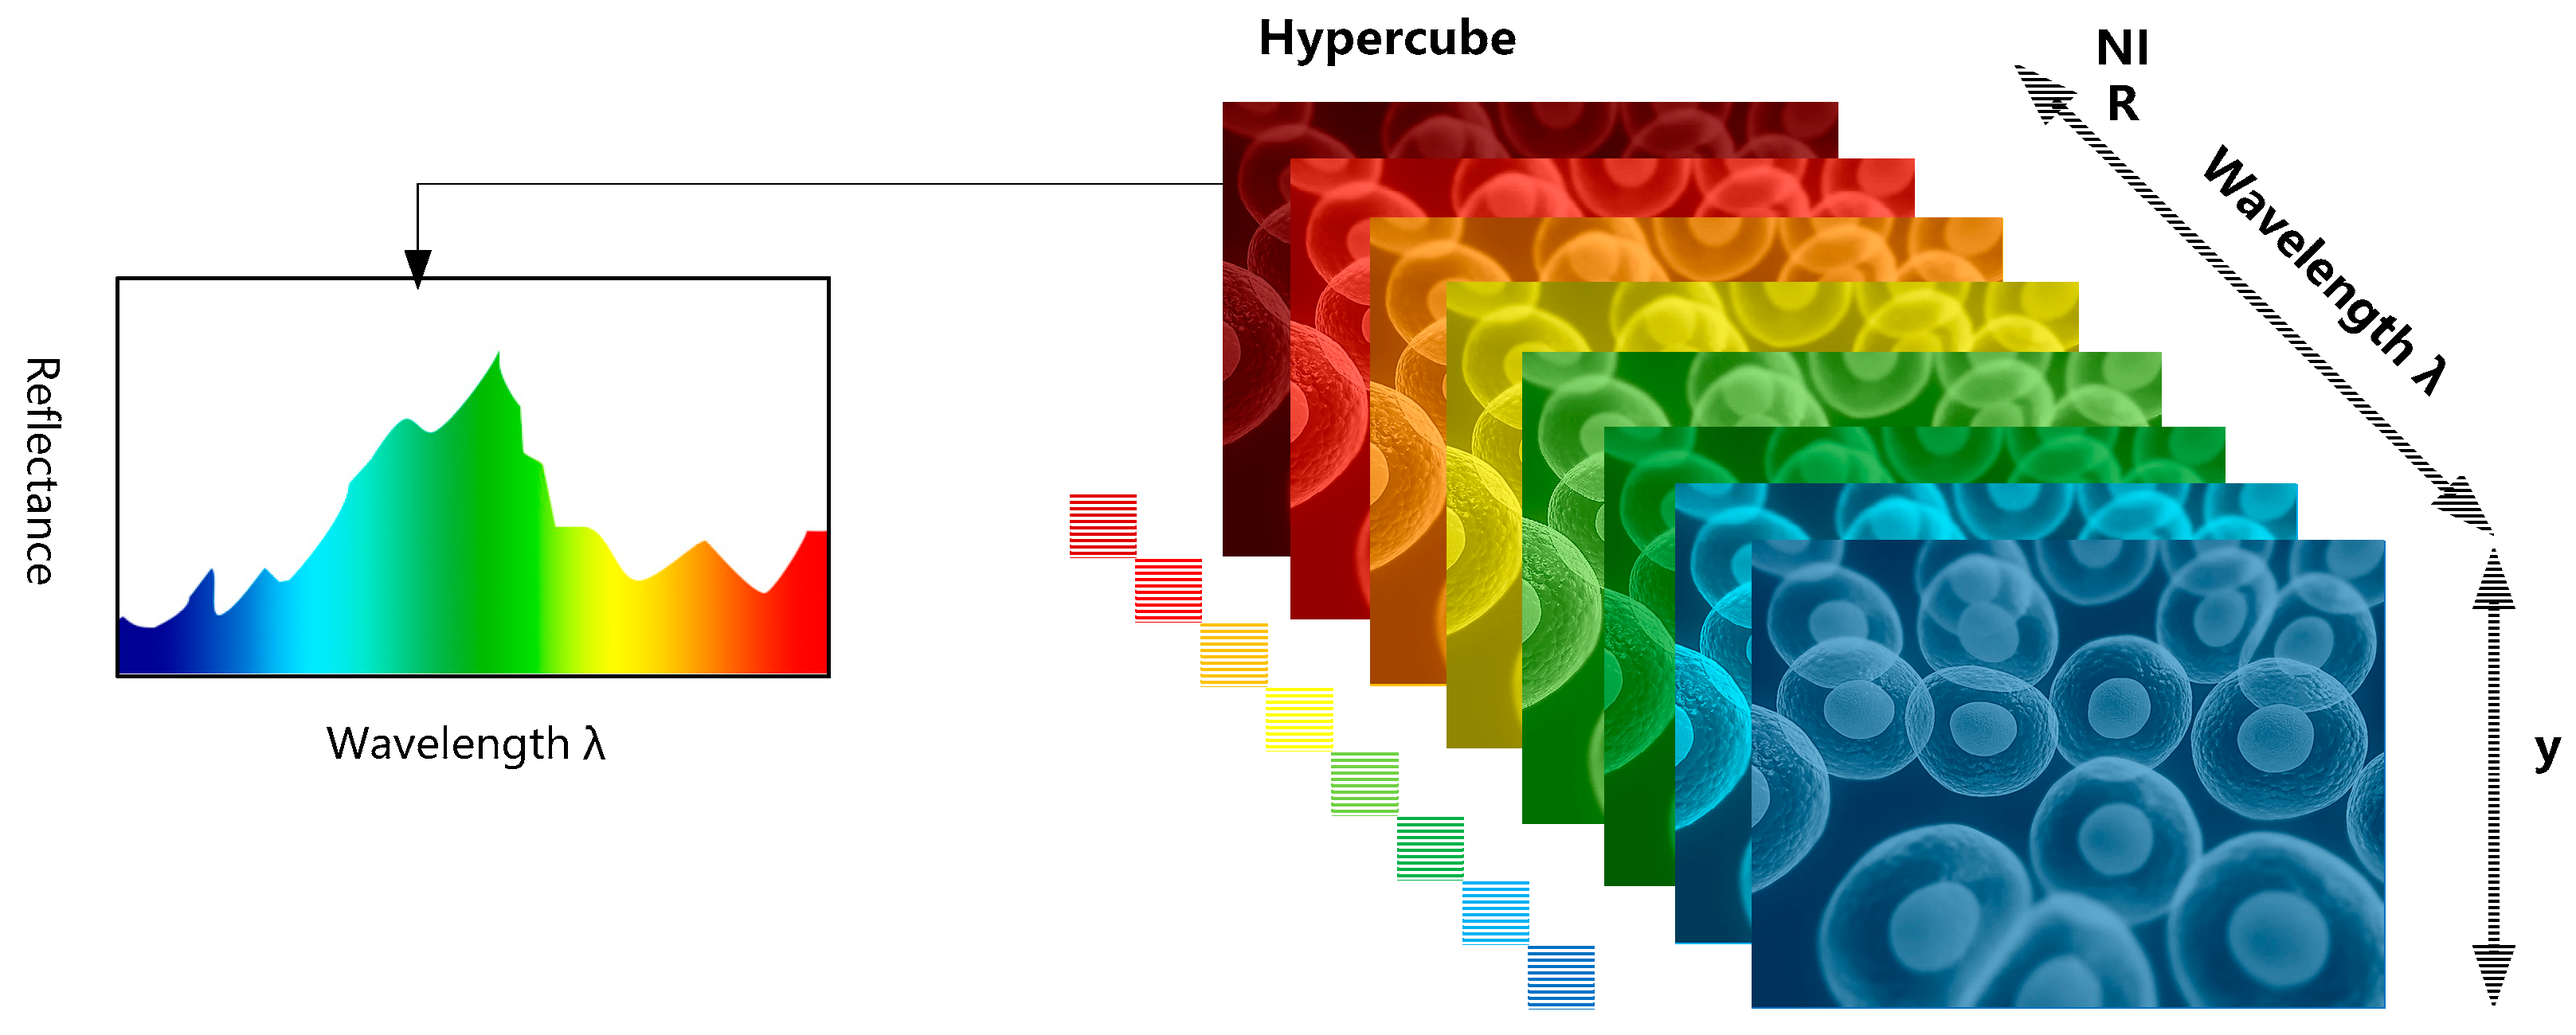
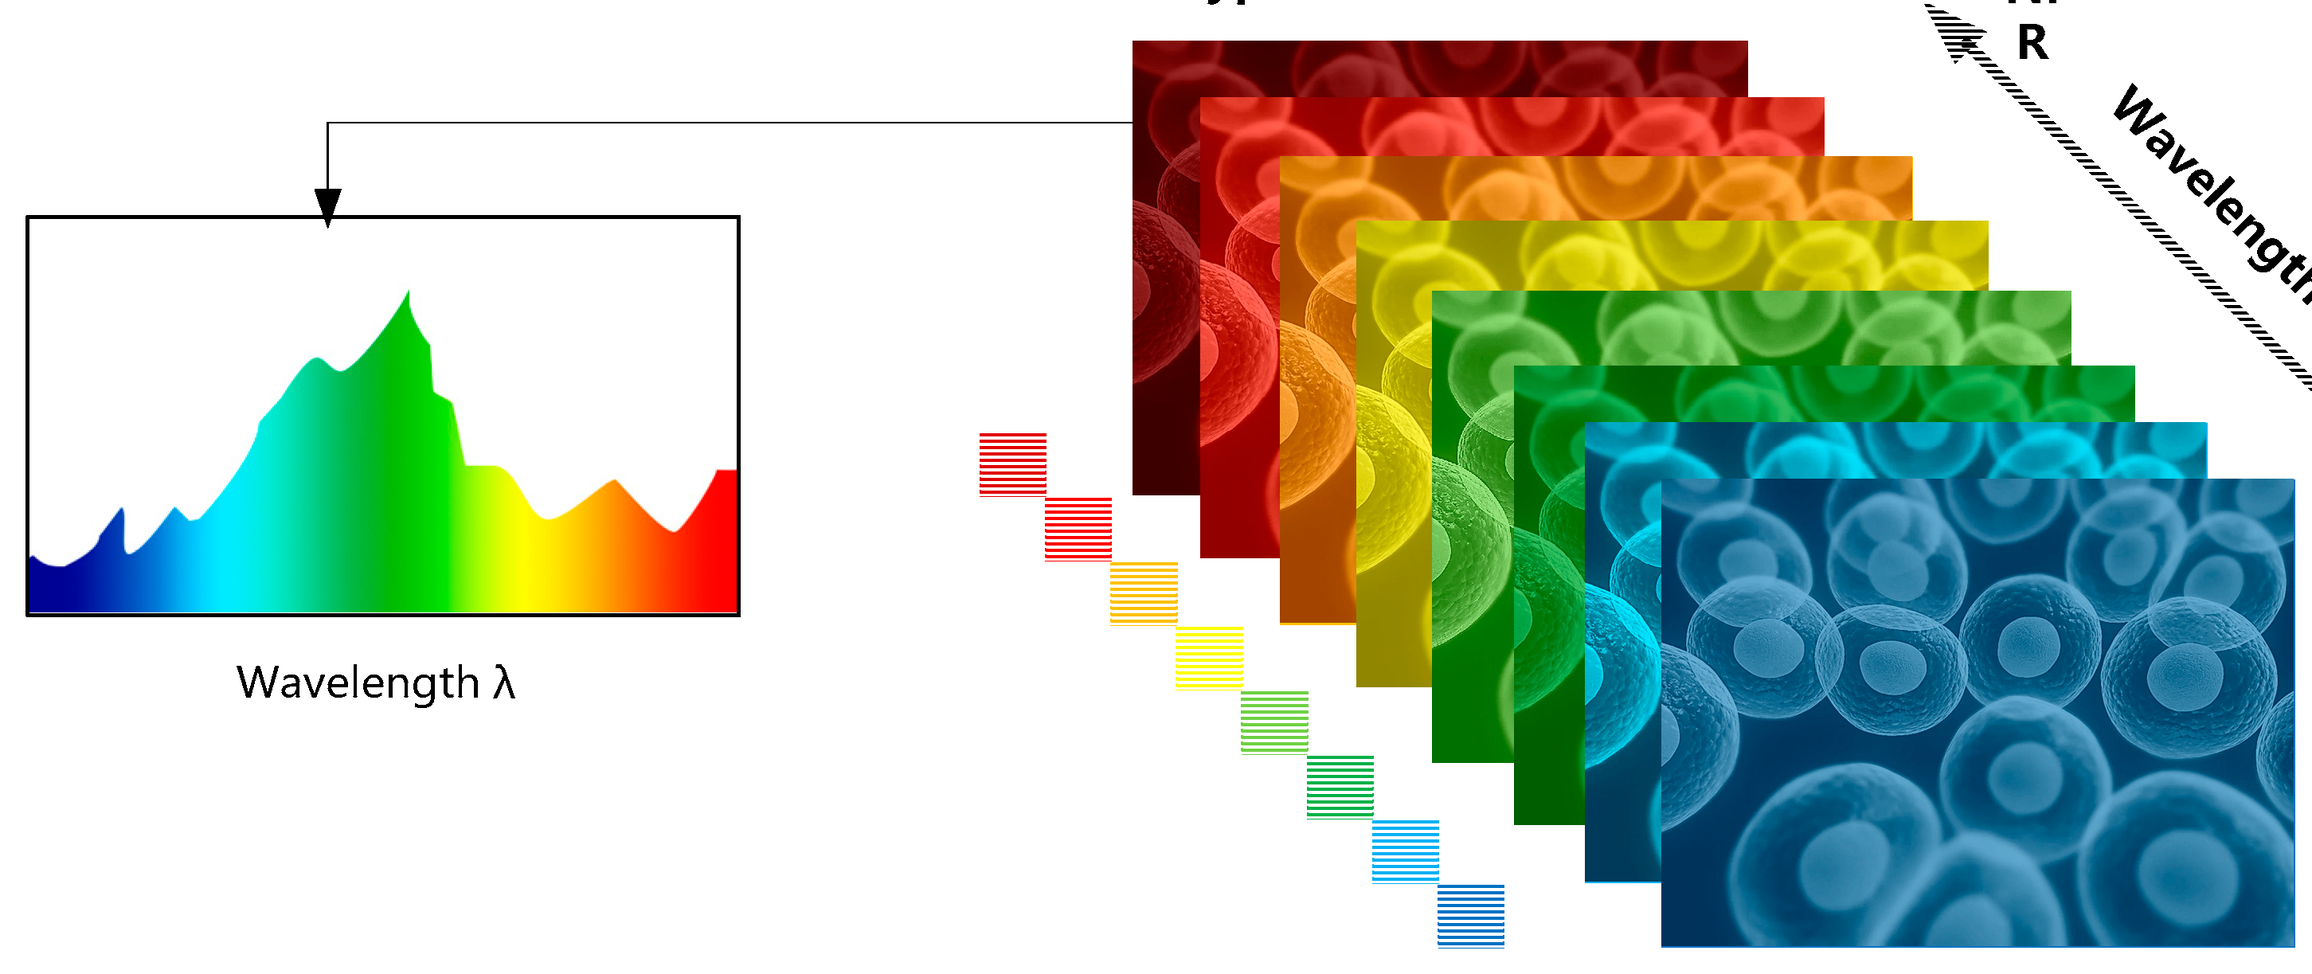
:mag: Optimized Image Quality for SEO

diff --git a/components/Index/Projects/Projects.js b/components/Index/Projects/Projects.js
@@ -3,10 +3,10 @@ import { motion } from 'framer-motion'
 import { useRef } from 'react'
 import Heading from '../Heading'
 import StockScreen from '../../../public/projects/stockscreen.jpg'
-import AgendaBuilder from '../../../public/projects/agenda.png'
+import AgendaBuilder from '../../../public/projects/agenda.jpg'
 import IDF from '../../../public/projects/balgurukul.webp'
 import ProjectGallery from '../../../public/projects/homebackground.jpg'
-import HyperSpectral from '../../../public/projects/hypersceptral.png'
+import HyperSpectral from '../../../public/projects/hypersceptral.jpg'
 import Heart from '../../../public/projects/heart.png'
 
 function Projects() {
